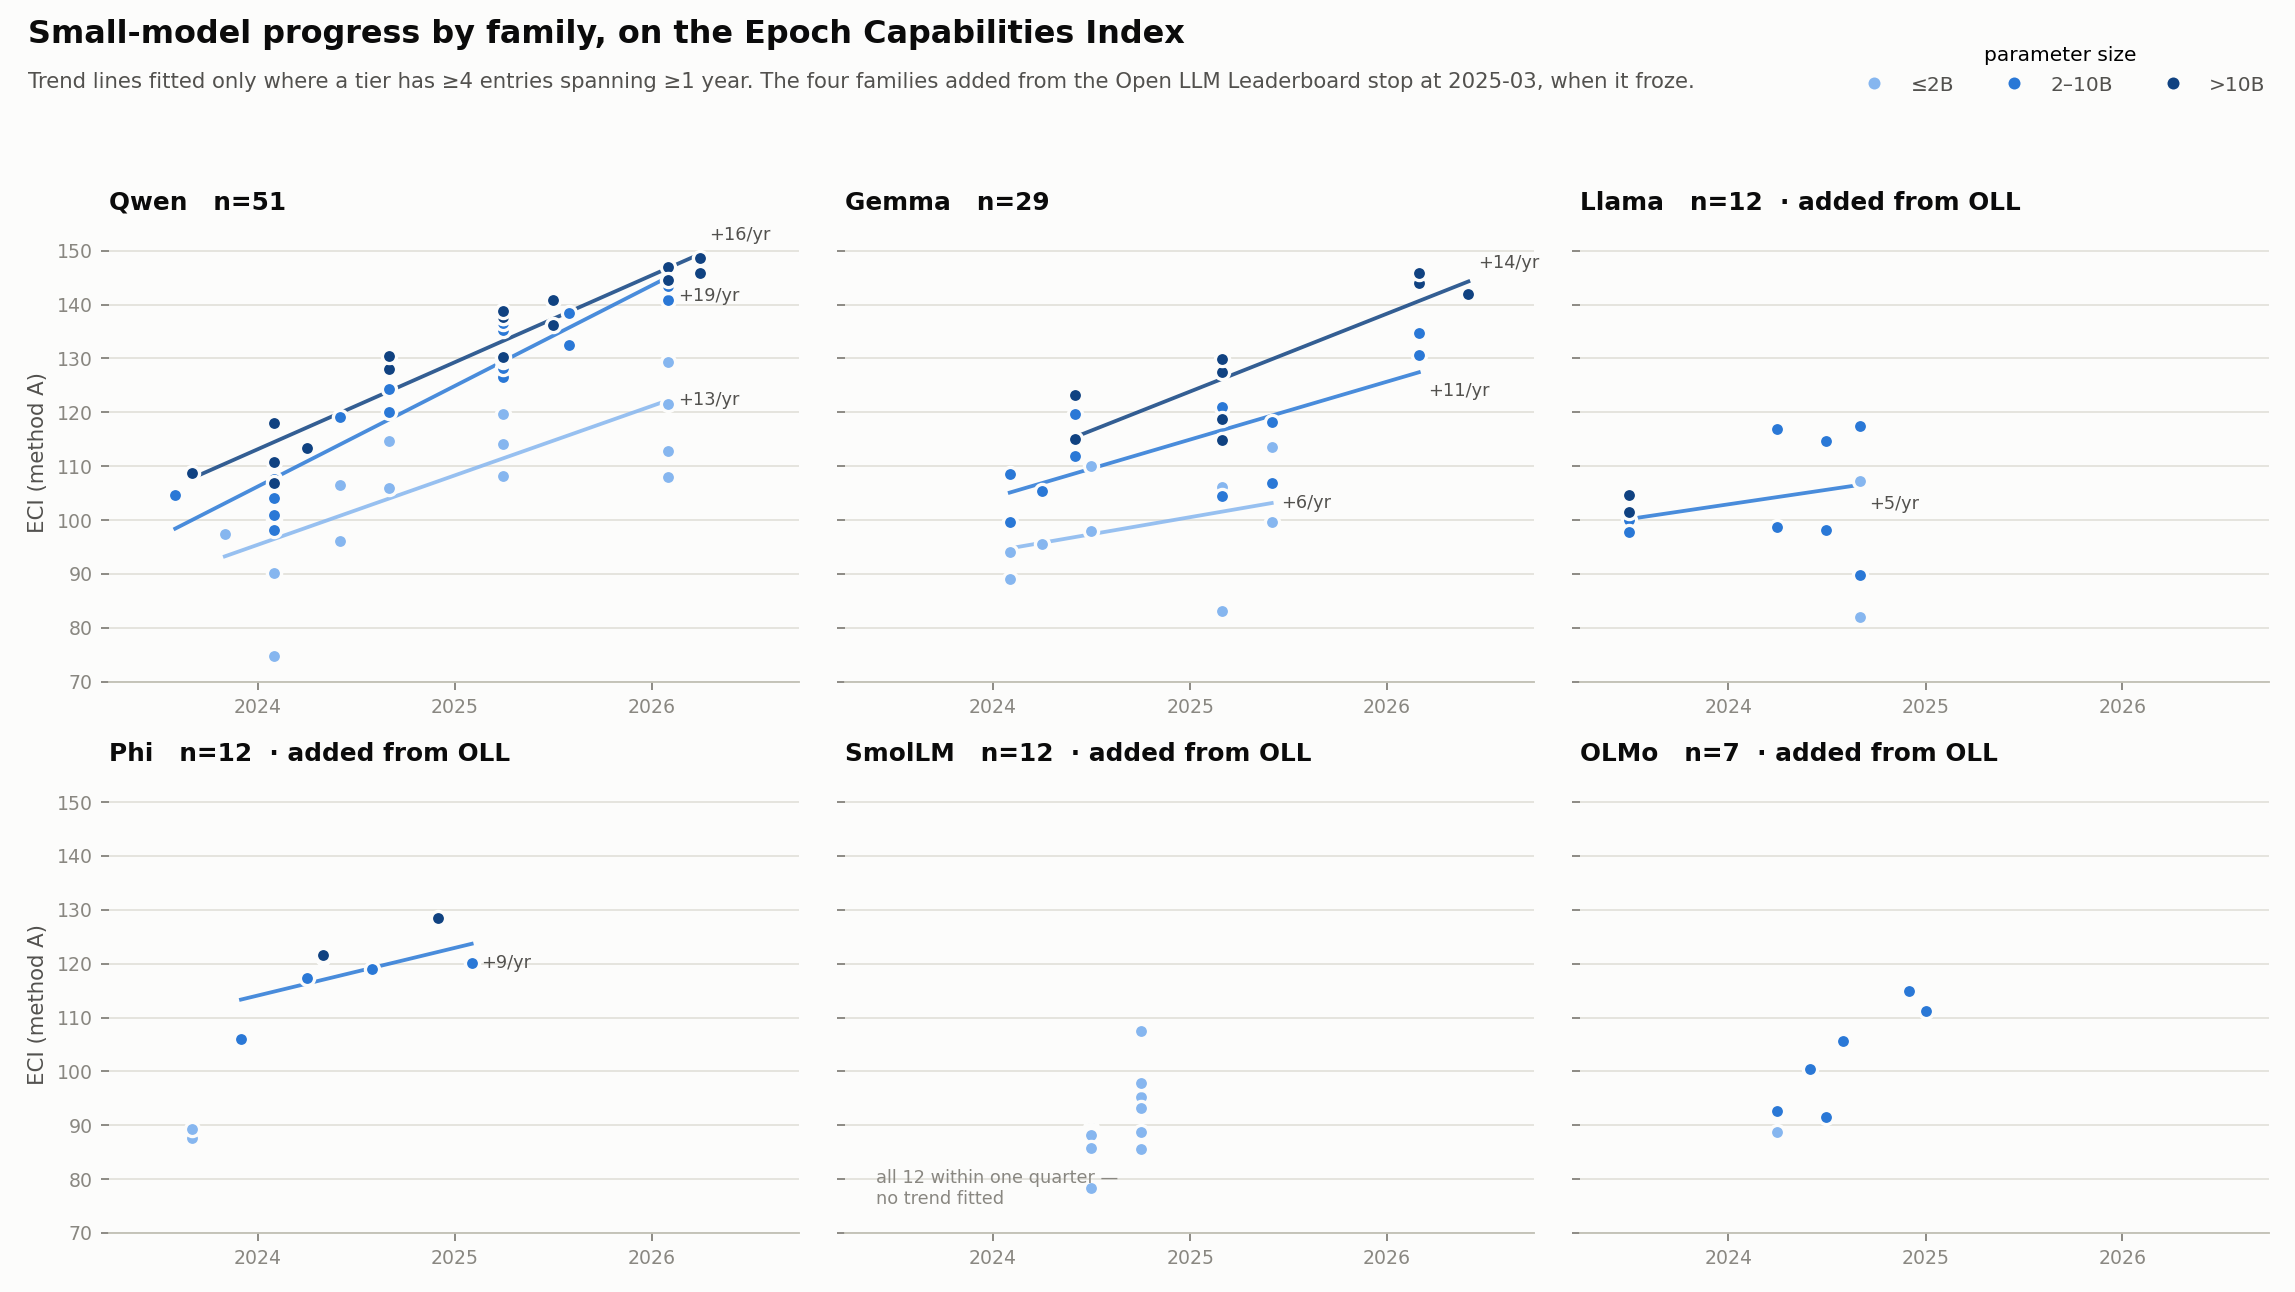
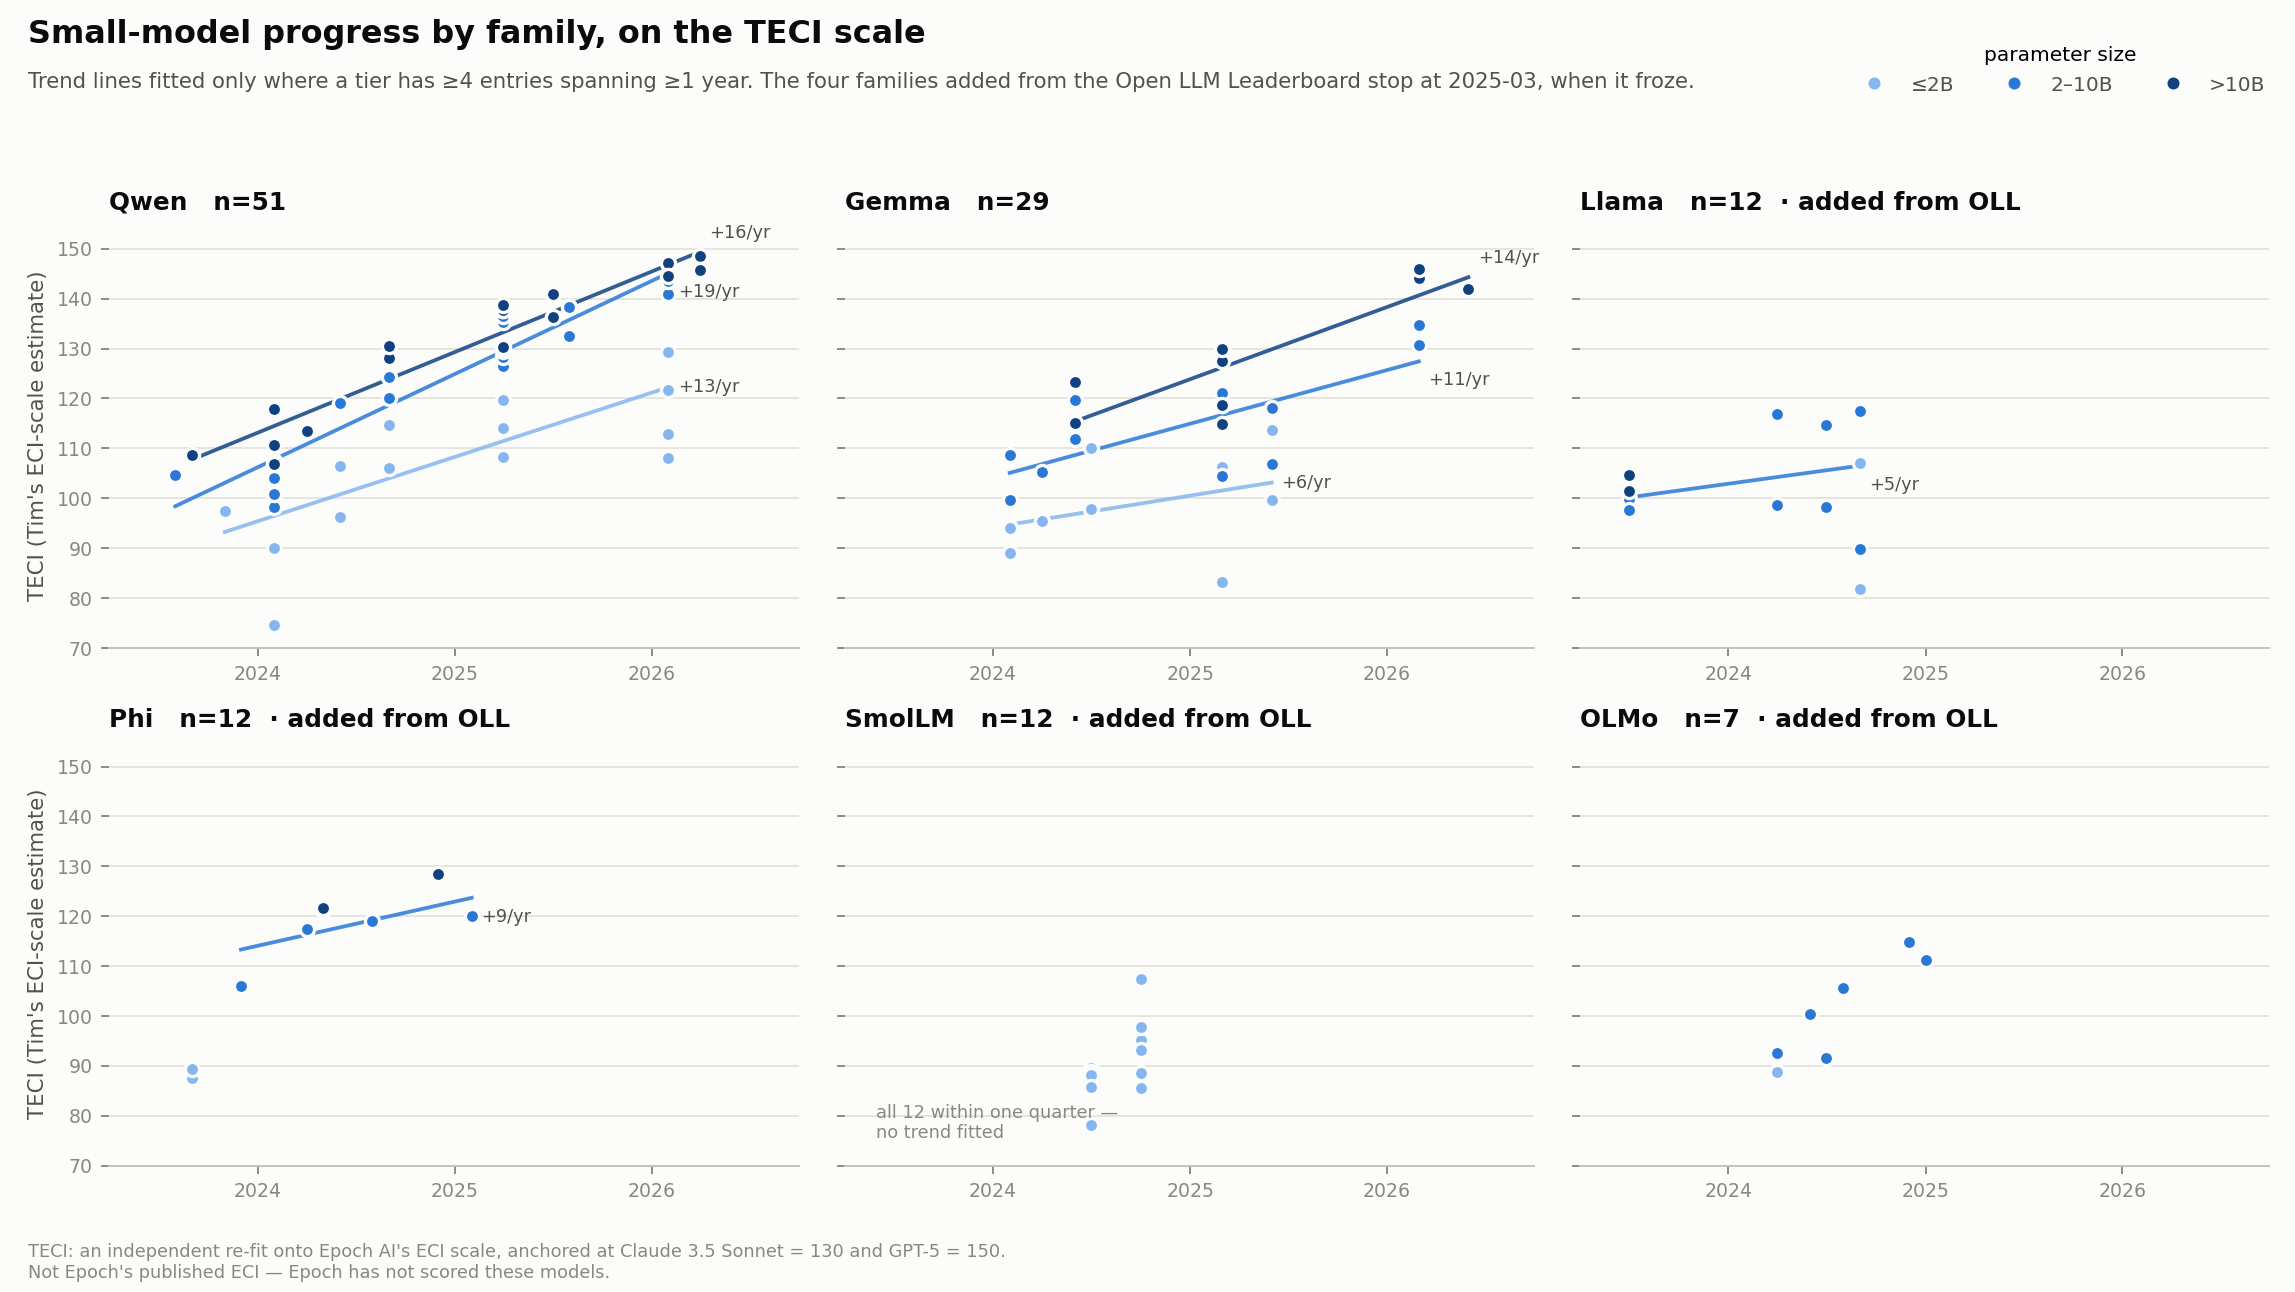
Label the axis TECI, not ECI
The values are our own estimates expressed in the units of Epoch's ECI
scale. Epoch has published no ECI for any model in these charts, so an axis
reading "ECI (Epoch Capabilities Index scale)" credited them with numbers
they never produced.

Every chart now reads TECI on the axis and carries a footnote naming what it
is and what it is not. The footnote sits at the foot rather than under the
title, so the header stays clean and the caveat travels with the image
wherever it gets pasted.

Expanded as "Tim's ECI-scale estimate" rather than as an Epoch-branded
index: the scale is Epoch's, the estimates are not, and putting their name
inside a coined index name would imply an endorsement that does not exist.
The one place Epoch's real numbers appear -- the diamonds on the method
agreement chart -- is labelled as theirs.

Also fixes a stale hardcode there: the legend said "8 shared models" and
has said so since the bridge set grew to 18. It now counts the rows.

diff --git a/scripts/mk_charts.py b/scripts/mk_charts.py
@@ -7,7 +7,15 @@ import matplotlib.pyplot as plt
 import matplotlib.dates as mdates
 
 SURF, INK, INK2, GRID = "#fcfcfb", "#0b0b0b", "#52514e", "#e5e4e0"
+MUTED = "#898781"
 C = ["#2a78d6", "#eb6834", "#1baf7a", "#eda100", "#e87ba4", "#008300"]
+
+# Our estimates in the units of Epoch's ECI scale; Epoch has not scored these
+# models, so the axis must not say "ECI". See mk_chart_qwen.py for the rationale.
+TECI_AXIS = "TECI (Tim's ECI-scale estimate)"
+TECI_NOTE = ("TECI: an independent re-fit onto Epoch AI's ECI scale, anchored at "
+             "Claude 3.5 Sonnet = 130 and GPT-5 = 150.\n"
+             "Not Epoch's published ECI — Epoch has not scored these models.")
 
 r = pd.read_csv("results_methods.csv")
 r["date"] = pd.to_datetime(r.release.astype(str), format="%Y-%m")
@@ -72,12 +80,13 @@ for ax, tracks, title, direct in ((axes[0], TRACKS_Q, "Qwen", DIRECT_Q),
     ax.set_xlim(pd.Timestamp("2023-06-01"), pd.Timestamp("2026-12-01"))
     ax.legend(loc="lower right", fontsize=8, frameon=False, labelcolor=INK2,
               title="size track", title_fontsize=8)
-axes[0].set_ylabel("ECI (Epoch Capabilities Index scale)", color=INK2, fontsize=9.5)
-fig.suptitle("Small Qwen & Gemma models on the ECI scale (method A: joint refit with Epoch data)",
+axes[0].set_ylabel(TECI_AXIS, color=INK2, fontsize=9.5)
+fig.suptitle("Small Qwen & Gemma models on the TECI scale (method A: joint refit with Epoch data)",
              color=INK, fontsize=13, x=0.02, ha="left", fontweight="bold", y=0.99)
 fig.text(0.02, 0.925, "Instruct/thinking entries",
          color=INK2, fontsize=9)
-fig.tight_layout(rect=(0, 0, 1, 0.91))
+fig.text(0.02, 0.012, TECI_NOTE, color=MUTED, fontsize=7.5, va="bottom")
+fig.tight_layout(rect=(0, 0.062, 1, 0.91))
 fig.savefig("eci_trajectories.png", dpi=170, facecolor=SURF)
 
 # ---- chart 2: method agreement ----
@@ -93,10 +102,10 @@ ax.scatter(v.eci_A, v.eci_C, s=26, color=C[1], edgecolors=SURF, linewidths=0.8, 
            label="C: standalone + bridge")
 pubv = r.dropna(subset=["eci_published"])
 ax.scatter(pubv.eci_A, pubv.eci_published, s=60, marker="D", color=C[2], edgecolors=SURF,
-           linewidths=1, zorder=4, label="Epoch published (8 shared models)")
+           linewidths=1, zorder=4, label=f"Epoch published ({len(pubv)} shared models)")
 ax.set_xlim(lims); ax.set_ylim(lims)
-ax.set_xlabel("ECI — method A (joint refit)", color=INK2, fontsize=9.5)
-ax.set_ylabel("ECI — other methods", color=INK2, fontsize=9.5)
+ax.set_xlabel("TECI — method A (joint refit)", color=INK2, fontsize=9.5)
+ax.set_ylabel("TECI — methods B and C  ·  diamonds: Epoch's published ECI", color=INK2, fontsize=9.5)
 ax.grid(color=GRID, lw=0.7)
 ax.tick_params(colors=INK2, labelsize=8.5)
 for s in ("top", "right"): ax.spines[s].set_visible(False)
@@ -104,6 +113,7 @@ for s in ("bottom", "left"): ax.spines[s].set_color(GRID)
 ax.legend(loc="upper left", fontsize=8.5, frameon=False, labelcolor=INK2)
 ax.set_title(f"Method agreement: {len(v)} model entries, three grafting methods",
              color=INK, fontsize=12, loc="left", fontweight="bold")
-fig2.tight_layout()
+fig2.text(0.02, 0.012, TECI_NOTE, color=MUTED, fontsize=7.5, va="bottom")
+fig2.tight_layout(rect=(0, 0.075, 1, 1))
 fig2.savefig("eci_method_agreement.png", dpi=170, facecolor=SURF)
 print("saved")

diff --git a/scripts/mk_chart_families.py b/scripts/mk_chart_families.py
@@ -30,6 +30,13 @@ import matplotlib.pyplot as plt  # noqa: E402
 
 SURF, INK, INK2 = "#fcfcfb", "#0b0b0b", "#52514e"
 MUTED, GRID, AXIS = "#898781", "#e1e0d9", "#c3c2b7"
+
+# Our estimates in the units of Epoch's ECI scale; Epoch has not scored these
+# models, so the axis must not say "ECI". See mk_chart_qwen.py for the rationale.
+TECI_AXIS = "TECI (Tim's ECI-scale estimate)"
+TECI_NOTE = ("TECI: an independent re-fit onto Epoch AI's ECI scale, anchored at "
+             "Claude 3.5 Sonnet = 130 and GPT-5 = 150.\n"
+             "Not Epoch's published ECI — Epoch has not scored these models.")
 # ordinal ramp, light -> dark = small -> large
 TIER_C = {"≤2B": "#86b6ef", "2–10B": "#2a78d6", ">10B": "#104281"}
 TIERS = list(TIER_C)
@@ -89,7 +96,7 @@ for ax, fam in zip(axes.ravel(), FAMS):
     ax.tick_params(labelbottom=True)
 axes[0, 0].set_ylim(70, 155)
 for ax in axes[:, 0]:
-    ax.set_ylabel("ECI (method A)", color=INK2, fontsize=9)
+    ax.set_ylabel(TECI_AXIS, color=INK2, fontsize=9)
 
 handles = [plt.Line2D([], [], marker="o", ms=6.5, linestyle="none", color=c,
                       markeredgecolor=SURF, markeredgewidth=1.4, label=t)
@@ -97,13 +104,14 @@ handles = [plt.Line2D([], [], marker="o", ms=6.5, linestyle="none", color=c,
 fig.legend(handles=handles, loc="upper right", bbox_to_anchor=(0.995, 0.978),
            ncol=3, fontsize=8.5, frameon=False, labelcolor=INK2,
            title="parameter size", title_fontsize=8.5)
-fig.suptitle("Small-model progress by family, on the Epoch Capabilities Index",
+fig.suptitle("Small-model progress by family, on the TECI scale",
              color=INK, fontsize=13.5, x=0.012, ha="left", fontweight="bold", y=0.985)
 fig.text(0.012, 0.932,
          "Trend lines fitted only where a tier has ≥4 entries spanning ≥1 year. "
          "The four families added from the Open LLM Leaderboard stop at 2025-03, when it froze.",
          color=INK2, fontsize=9)
-fig.tight_layout(rect=(0, 0, 1, 0.918))
+fig.text(0.012, 0.008, TECI_NOTE, color=MUTED, fontsize=7.5, va="bottom")
+fig.tight_layout(rect=(0, 0.052, 1, 0.918))
 fig.savefig("eci_families.png", dpi=170, facecolor=SURF)
 
 # ---------------------------------------------------------------- chart 2
@@ -136,7 +144,7 @@ ax.set_yticklabels([f"{lbl}\nsmall tier n={n}" for lbl, _, n in STEPS],
                    fontsize=9.5, color=INK2)
 ax.set_ylim(-0.6, len(STEPS) - 0.4)
 ax.set_xlim(0, 3.9)
-ax.set_xlabel("gap in ECI/yr  (how much faster the >10B tier improves than the small tier)",
+ax.set_xlabel("gap in TECI/yr  (how much faster the >10B tier improves than the small tier)",
               color=INK2, fontsize=9)
 ax.grid(axis="x", color=GRID, lw=0.7)
 ax.set_axisbelow(True)

diff --git a/scripts/mk_chart_qwen.py b/scripts/mk_chart_qwen.py
@@ -7,7 +7,18 @@ import matplotlib.pyplot as plt
 import matplotlib.dates as mdates
 
 SURF, INK, INK2, GRID = "#fcfcfb", "#0b0b0b", "#52514e", "#e5e4e0"
+MUTED = "#898781"
 C = ["#2a78d6", "#eb6834", "#1baf7a", "#eda100", "#e87ba4", "#008300"]
+
+# These are OUR estimates, expressed in the units of Epoch's ECI scale -- Epoch
+# has not scored any of these models. Labelling the axis "ECI" would credit them
+# with numbers they did not publish, so every chart says TECI and carries the
+# footnote. Deliberately expanded as "ECI-scale estimate" rather than as an
+# Epoch-branded index: the scale is theirs, the estimates are not.
+TECI_AXIS = "TECI (Tim's ECI-scale estimate)"
+TECI_NOTE = ("TECI: an independent re-fit onto Epoch AI's ECI scale, anchored at "
+             "Claude 3.5 Sonnet = 130 and GPT-5 = 150.\nNot Epoch's published ECI — "
+             "Epoch has not scored these models.")
 
 r = pd.read_csv("results_methods.csv")
 r["date"] = pd.to_datetime(r.release.astype(str), format="%Y-%m")
@@ -73,11 +84,14 @@ ax.spines["bottom"].set_color(GRID)
 ax.xaxis.set_major_locator(mdates.MonthLocator(interval=4))
 ax.xaxis.set_major_formatter(mdates.DateFormatter("%Y-%m"))
 ax.set_xlim(pd.Timestamp("2024-01-01"), pd.Timestamp("2026-09-01"))
-ax.set_ylabel("ECI (Epoch Capabilities Index scale)", color=INK2, fontsize=10)
+ax.set_ylabel(TECI_AXIS, color=INK2, fontsize=10)
 ax.legend(loc="lower right", fontsize=8.5, frameon=False, labelcolor=INK2,
           title="size track", title_fontsize=8.5)
-ax.set_title("Qwen models on the ECI scale, by size track (Qwen1.5 onward)",
+ax.set_title("Qwen models on the TECI scale, by size track (Qwen1.5 onward)",
              color=INK, fontsize=13, loc="left", fontweight="bold", pad=34)
-fig.tight_layout()
+# the disclaimer rides at the foot rather than under the title, so the header
+# stays clean and the claim is still on the chart wherever it gets pasted
+fig.text(0.012, 0.012, TECI_NOTE, color=MUTED, fontsize=7.5, va="bottom")
+fig.tight_layout(rect=(0, 0.062, 1, 1))
 fig.savefig("eci_trajectories_qwen.png", dpi=170, facecolor=SURF)
 print("saved")
